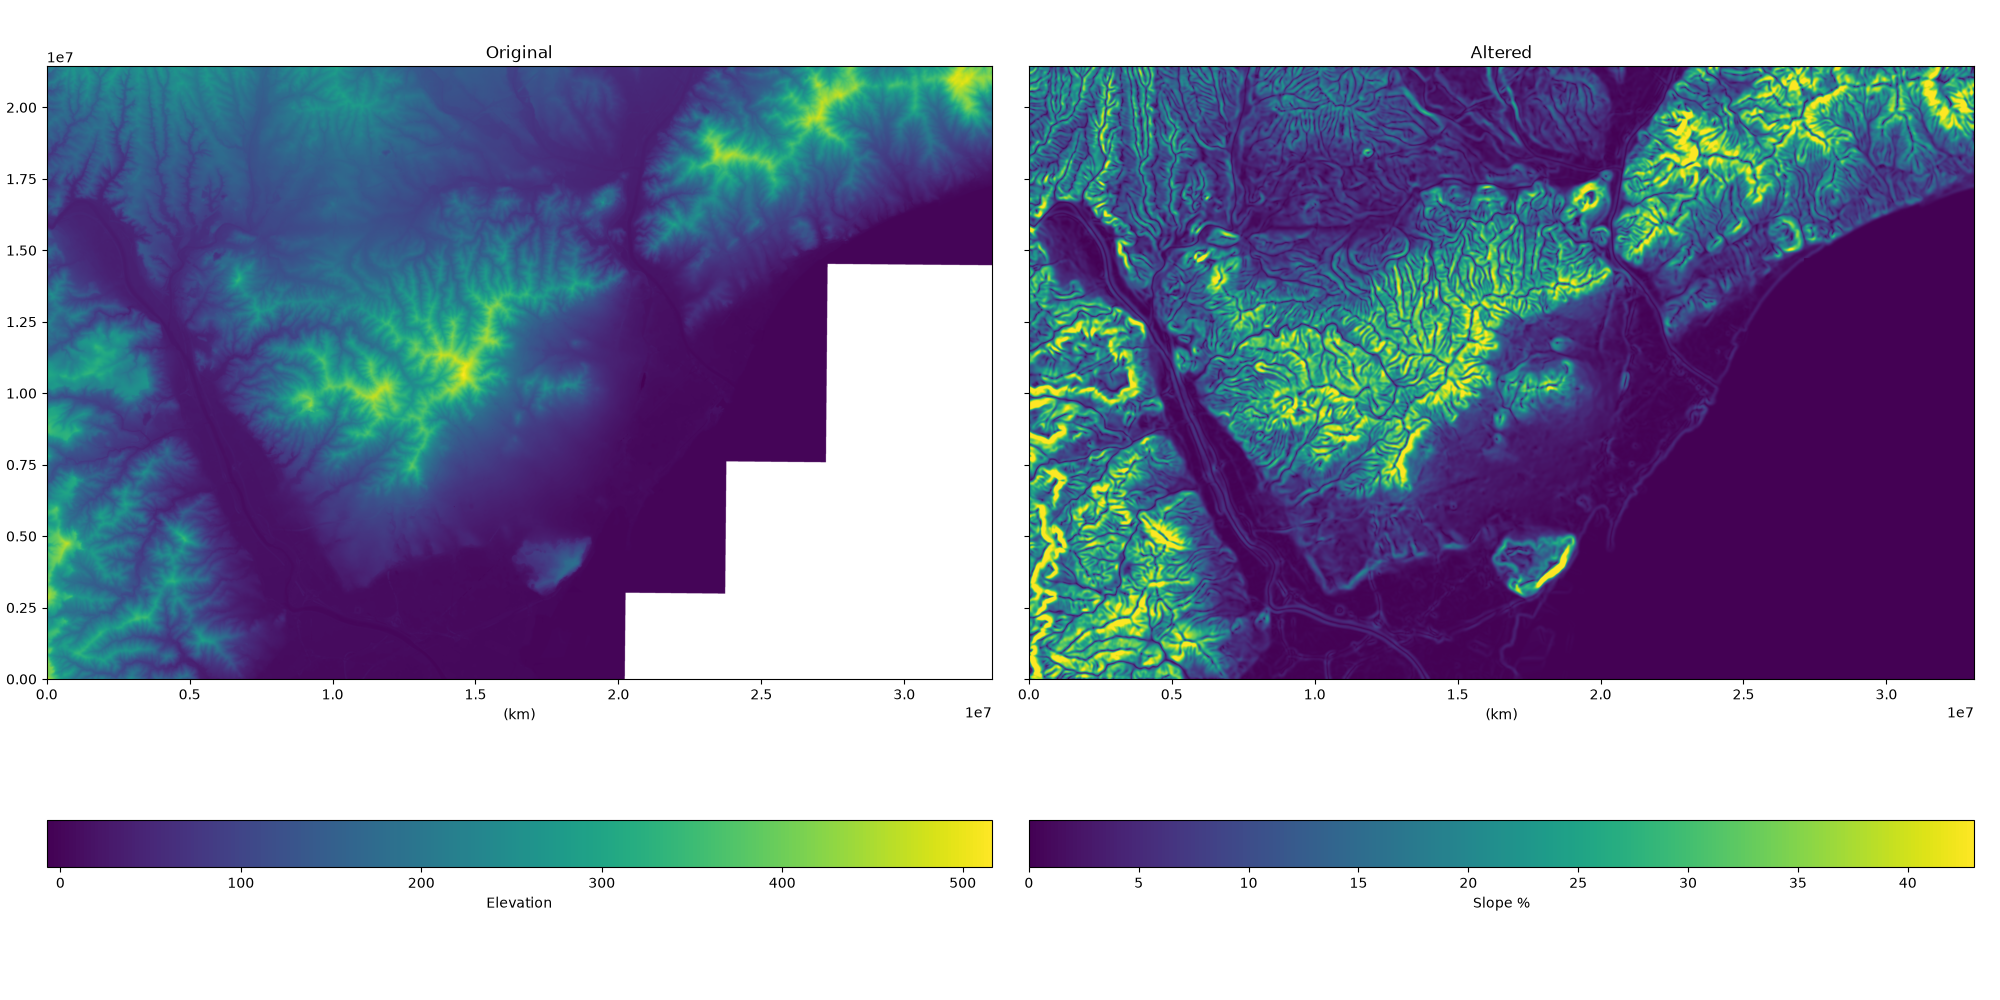
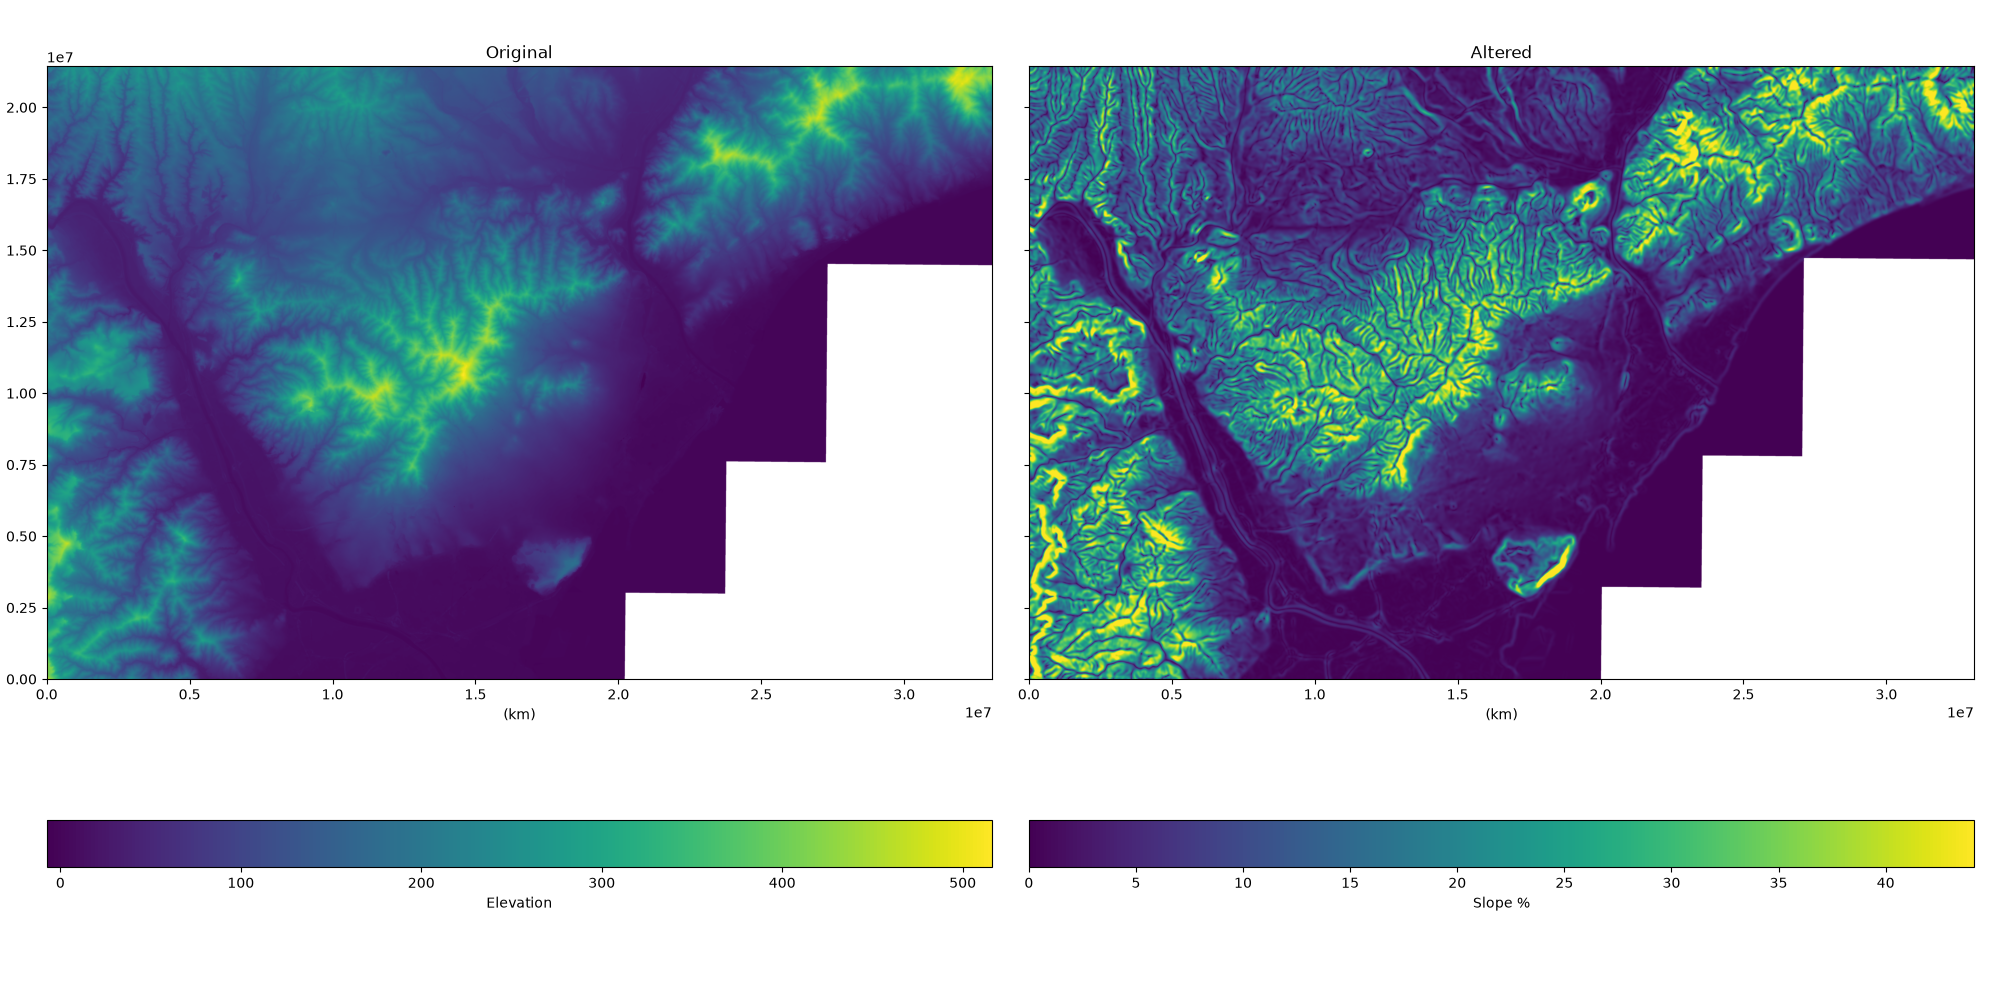
Minor improvements

Changed region(s): [[0.775, 0.248, 0.992, 0.682], [0.93, 0.868, 0.961, 0.899]]

diff --git a/elevation/main.py b/elevation/main.py
@@ -25,7 +25,7 @@ def flat_nonan(a: np.ndarray):
     v = a.flatten()
     return v[np.logical_not(np.isnan(v))]
 
-def truncate(a: np.ndarray, qmin = 0.01, qmax = None, check_nan = True) -> np.ndarray:
+def clip_outliers(a: np.ndarray, qmin = 0.01, qmax = None, check_nan = True) -> np.ndarray:
     if check_nan:
         v = flat_nonan(a)
     else:
@@ -44,10 +44,10 @@ def draw_slopes(conf: config.Config, sd: data.SpatialData):
 
     sd.altered = scipy.ndimage.gaussian_filter(sd.altered, 10)
     grads = np.gradient(sd.altered)
-    sd.altered = np.nan_to_num(100 * np.sqrt(grads[0]**2 + grads[1]**2) / sd.scale, False, 0.0)
+    sd.altered = 100 * np.sqrt(grads[0]**2 + grads[1]**2) / sd.scale
 
     # Get rid of outliers
-    sd.altered = truncate(sd.altered)
+    sd.altered = clip_outliers(sd.altered)
 
     p = draw.TwoPlot(conf, sd)
     p.plot_original()
@@ -75,7 +75,7 @@ def draw_shading(conf: config.Config, sd: data.SpatialData):
 
     p = draw.TwoPlot(conf, sd)
     p.plot_original()
-    p.plot_altered_1d(f"Shading, ligh in direction {int(angle)}° from north", cmap='gray')
+    p.plot_altered_1d(f"Shading, lit from {int(angle)}° from north", cmap='gray')
     p.commit()
 
 

diff --git a/README.md b/README.md
@@ -20,8 +20,10 @@ style-args:                    # Args for the style, see below
 ### Slope
 Style `slope` shades terrain based on how inclined it is (i.e. the norm of the gradient).
 
-Here is an example with 2m-resolution data around Barcelona
+Here is an example with 2m-resolution data around Barcelona.
 ![alt text](.readme/slope.png)
+
+Blank areas are outside the source map (in this case it's just the sea).
 
 
 ### Shading
